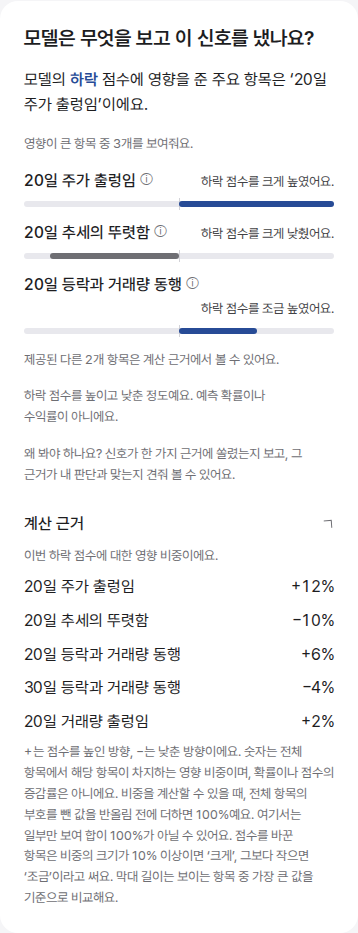
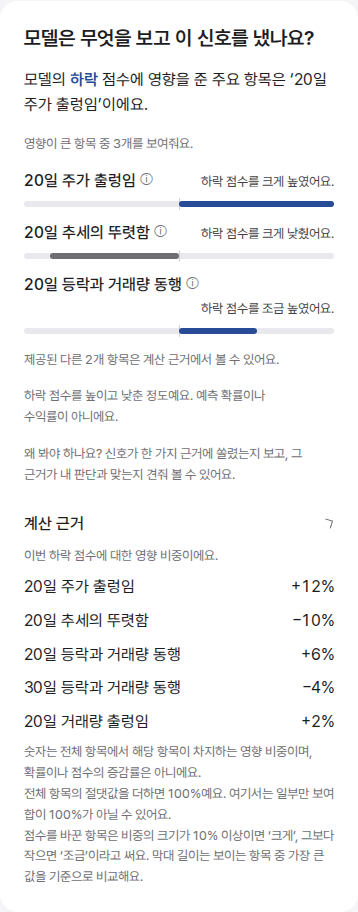
fix(web): apply requested contribution explanation paragraphs

diff --git a/frontend/tests/e2e/chart-preview.spec.ts b/frontend/tests/e2e/chart-preview.spec.ts
@@ -88,7 +88,7 @@ test("feature shares use the whole-model denominator and raw values are collapse
   await expect(model.locator("details.disclosure")).not.toHaveAttribute("open", "");
   await model.locator("summary", { hasText: "계산 근거" }).click();
   await expect(model.locator("dd").first()).toContainText(contributionPercent(features[0].contribution, 1));
-  await expect(model).toContainText("전체 항목의 부호를 뺀 값을 반올림 전에 더하면 100%");
+  await expect(model).toContainText("전체 항목의 절댓값을 더하면 100%");
   await expect(model.locator("[data-model-feature]")).not.toContainText(["영향 비중", "관측값", "관측값"]);
   await page.setViewportSize({ width: 390, height: 844 });
   expect(await page.evaluate(() => document.documentElement.scrollWidth <= innerWidth)).toBe(true);
@@ -312,6 +312,7 @@ test("mobile feature names stay on one line and detailed copy explains size word
   await expect(panel.getByText("하락 점수를 높이고 낮춘 정도예요. 예측 확률이나 수익률이 아니에요.", { exact: true })).toBeVisible();
   await panel.getByText("계산 근거", { exact: true }).click();
   await expect(panel).toContainText("10% 이상이면 ‘크게’, 그보다 작으면 ‘조금’");
-  await expect(panel).toContainText("전체 항목의 부호를 뺀 값을 반올림 전에 더하면 100%");
+  await expect(panel).toContainText("전체 항목의 절댓값을 더하면 100%");
+  await expect(panel.locator("p").filter({ hasText: "전체 항목의 절댓값" })).toHaveCSS("white-space", "pre-line");
   await expect(panel.locator("dd").first()).toHaveText("−12%");
 });

diff --git a/frontend/app/components/insight-cards.tsx b/frontend/app/components/insight-cards.tsx
@@ -946,7 +946,9 @@ function ContributionPanel({
             </div>
           ))}
         </dl>
-        <p className="m-0 text-xs text-muted">+는 점수를 높인 방향, −는 낮춘 방향이에요. 숫자는 전체 항목에서 해당 항목이 차지하는 영향 비중이며, 확률이나 점수의 증감률은 아니에요. 비중을 계산할 수 있을 때, 전체 항목의 부호를 뺀 값을 반올림 전에 더하면 100%예요. 여기서는 일부만 보여 합이 100%가 아닐 수 있어요. 점수를 바꾼 항목은 비중의 크기가 10% 이상이면 ‘크게’, 그보다 작으면 ‘조금’이라고 써요. 막대 길이는 보이는 항목 중 가장 큰 값을 기준으로 비교해요.</p>
+        <p className="m-0 whitespace-pre-line text-xs text-muted">{`숫자는 전체 항목에서 해당 항목이 차지하는 영향 비중이며, 확률이나 점수의 증감률은 아니에요.
+전체 항목의 절댓값을 더하면 100%예요. 여기서는 일부만 보여 합이 100%가 아닐 수 있어요.
+점수를 바꾼 항목은 비중의 크기가 10% 이상이면 ‘크게’, 그보다 작으면 ‘조금’이라고 써요. 막대 길이는 보이는 항목 중 가장 큰 값을 기준으로 비교해요.`}</p>
         </div>
       </details>
     </>

diff --git a/frontend/DESIGN.md b/frontend/DESIGN.md
@@ -81,7 +81,7 @@
 - 본문 오른쪽 문구는 기존처럼 '하락 점수를 크게/조금 높였어요'다. '크게'는 전체 피처 절댓값 합의 10% 이상, '조금'은 미만이다. 합이 없거나 0이면 크기 말 없이 방향만 쓴다.
 - '계산 근거'는 기존 두 열 표를 유지하고 원래 +/− 기여값 대신 '+12%' / '−10%'처럼 부호로 방향을 표시한다. 정확한 0은 '0%'로 표시한다.
 - 영향 비중 = 해당 기여값 절댓값 / 대상 클래스의 전체 피처 기여값 절댓값 합. 모델 기준값은 제외하며, 보이지 않는 항목도 분모에 포함한다. 전체 합이 없거나 0이면 비중은 미제공으로 표시한다.
-- 영향 비중은 소수 첫째 자리까지 표시하되 끝의 0은 뺀다. 비중 크기가 0.1% 미만이면 '+(0.1% 미만)' / '−(0.1% 미만)'으로 표시해 방향과 작은 크기를 보존한다. 전체 항목의 비중은 반올림 전 절댓값 합이 100%이며, 일부 항목만 보이거나 반올림하면 화면 합은 다를 수 있음을 안내한다. 확률 변화나 점수 증가율로 설명하지 않는다.
+- 영향 비중은 소수 첫째 자리까지 표시하되 끝의 0은 뺀다. 비중 크기가 0.1% 미만이면 '+(0.1% 미만)' / '−(0.1% 미만)'으로 표시해 방향과 작은 크기를 보존한다. 계산 정의상 전체 항목의 반올림 전 절댓값 합은 100%다. 화면 설명은 사용자 지정 세 문단으로 줄바꿈하고 일부 항목만 표시함을 함께 안내한다. 확률 변화나 점수 증가율로 설명하지 않는다.
 - 막대는 기존처럼 가운데 0, 왼쪽 낮춤, 오른쪽 높임이며 보이는 항목 중 가장 큰 절댓값 기준이다. 영향 비중과 막대의 비교 기준이 다름을 안내한다. 색은 기존 규칙을 유지한다.
 - 막대 아래에는 대상 점수를 높이고 낮춘 정도이며 예측 확률이나 수익률이 아니라는 짧은 안내를 유지한다. 크기 말의 10% 경계, 영향 비중의 쉬운 설명과 막대 비교 기준은 계산 근거 아래에 둔다.
 - 목록 위에 일부 항목만 표시함을 안내하고, 계산 근거에서 비중 합이 100%가 아닐 수 있음을 밝힌다. 전체 모델 입력 목록이라고 부르지 않는다.

diff --git a/docs/qa/2026-10-27-model-reasons/README.md b/docs/qa/2026-10-27-model-reasons/README.md
@@ -33,7 +33,7 @@
 - 관측값과 원래 계산식은 화면에 표시하지 않는다. 모델 입력/기여값과 서버 설명 메타데이터는 변경하지 않는다.
 
 - 막대 아래에는 기존처럼 대상 점수를 높이고 낮춘 정도이며 예측 확률이나 수익률이 아니라는 짧은 안내만 둔다.
-- 계산 근거 아래에는 부호의 뜻, 확률/점수 증감률이 아니라는 설명, 전체 항목의 반올림 전 절댓값 합이 100%라는 조건과 일부 항목 표시의 한계, 영향 비중 10% 이상은 크게/미만은 조금이라는 기준을 둔다. 막대 길이 비교 기준도 여기서 안내한다.
+- 계산 근거 아래에는 사용자가 정한 세 문단을 줄바꿈해 표시한다. 영향 비중의 뜻, 확률/점수 증감률이 아니라는 설명, 전체 비중과 일부 항목 표시의 차이, 영향 비중 10% 이상은 크게/미만은 조금이라는 기준을 안내한다. 막대 길이 비교 기준도 여기서 안내한다.
 
 ## 설명 사전
 
